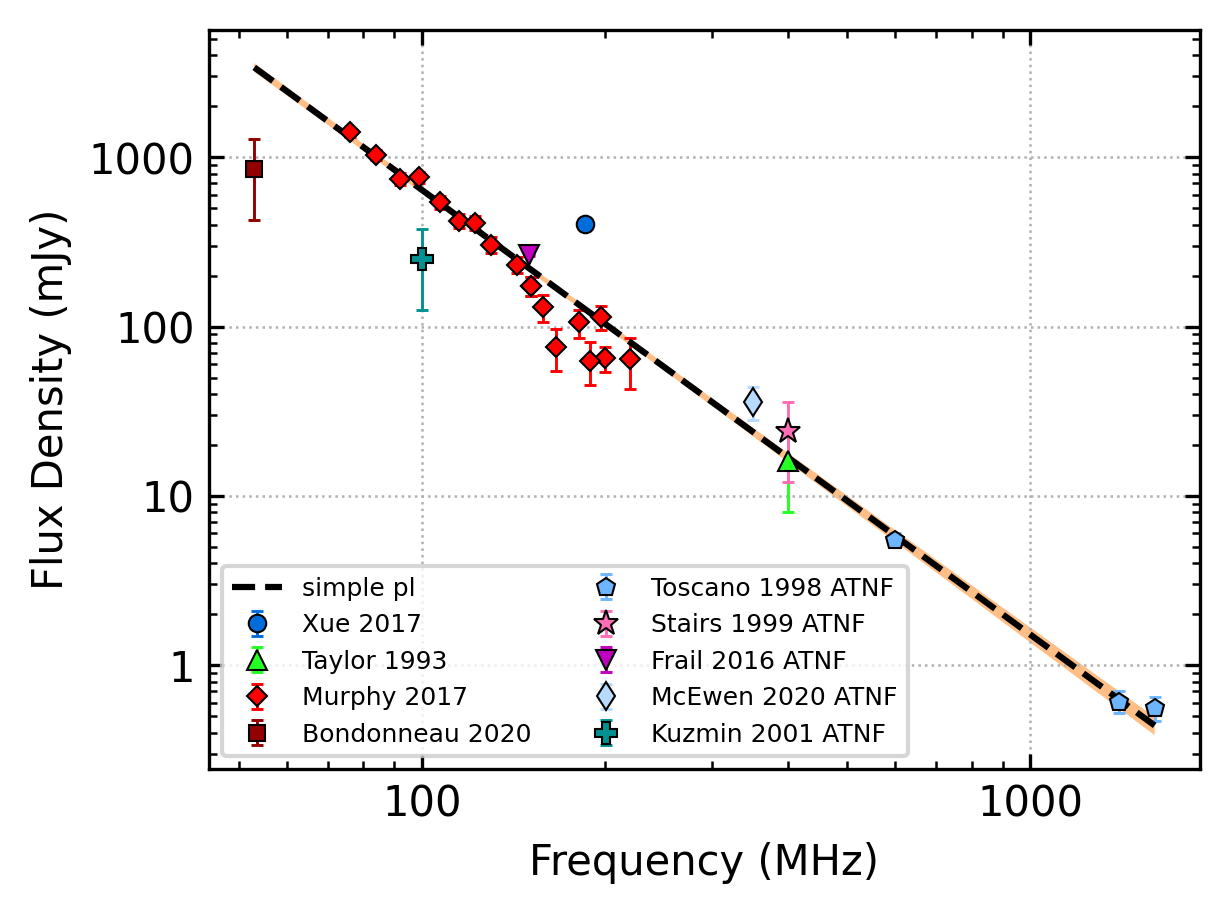
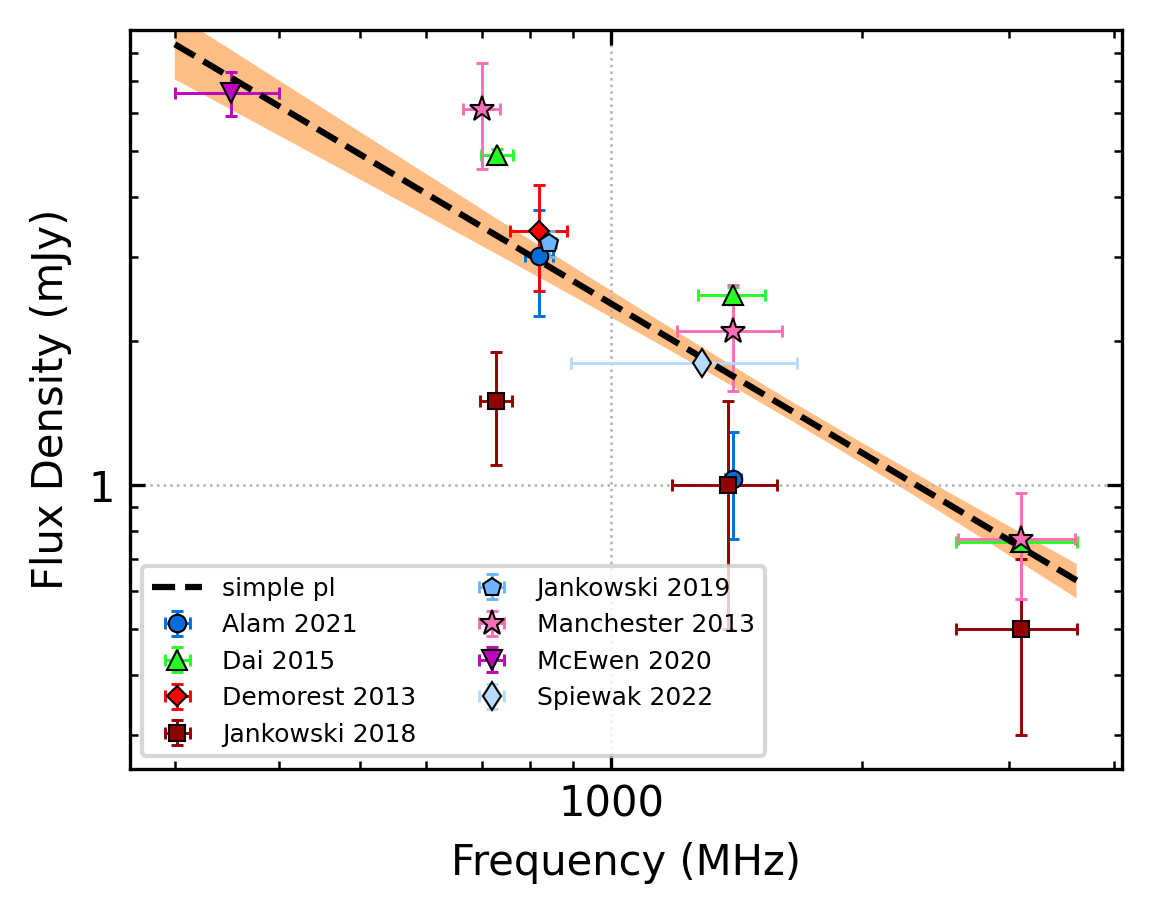
Updated plotting docs examples

diff --git a/docs/plotting.rst b/docs/plotting.rst
@@ -17,9 +17,9 @@ within the figure box and with an abbreviated model name and no fit info. This i
     from pulsar_spectra.spectral_fit import find_best_spectral_fit
 
     cat_dict = collect_catalogue_fluxes()
-    pulsar = 'J0034-0534'
-    freqs, fluxs, flux_errs, refs = cat_dict[pulsar]
-    best_model_name, iminuit_result, fit_info, p_best, p_category = find_best_spectral_fit(pulsar, freqs, fluxs, flux_errs, refs, plot_best=True, alternate_style=True)
+    pulsar = 'J1909-3744'
+    freqs, bands, fluxs, flux_errs, refs = cat_dict[pulsar]
+    best_model_name, iminuit_result, fit_info, p_best, p_category = find_best_spectral_fit(pulsar, freqs, bands, fluxs, flux_errs, refs, plot_best=True)
 
 This will produce the following plot:
 
@@ -41,21 +41,21 @@ marker to each reference. You can specify custom marker types using the followin
 
     custom_markers = {
     #   reference           :   (marker colour, marker type, marker size)
-        "Murphy_2017"       :   ('tab:orange', 'o', 5), # orange circle
-        "Bondonneau_2020"   :   ('tab:green',  'D', 5)  # green diamond
+        "Jankowski_2018"    :   ('magenta', 'h', 5), # orange circle
+        "Jankowski_2019"    :   ('cyan', 'H', 5)  # green diamond
     }
 
     cat_dict = collect_catalogue_fluxes()
-    pulsar = 'J0034-0534'
-    freqs, fluxs, flux_errs, refs = cat_dict[pulsar]
-    best_model_name, iminuit_result, fit_info, p_best, p_category = find_best_spectral_fit(pulsar, freqs, fluxs, flux_errs, refs, plot_best=True, ref_markers=custom_markers)
+    pulsar = 'J1909-3744'
+    freqs, bands, fluxs, flux_errs, refs = cat_dict[pulsar]
+    best_model_name, iminuit_result, fit_info, p_best, p_category = find_best_spectral_fit(pulsar, freqs, bands, fluxs, flux_errs, refs, plot_best=True, ref_markers=custom_markers)
 
 This will produce the following plot:
 
 .. image:: figures/example_custom_markers.png
   :width: 800
 
-In Lee et al. (2022, submitted), 32 custom marker types were created to ensure unique and consistent markers were
+In `Lee et al. (2022) <https://ui.adsabs.harvard.edu/abs/2022PASA...39...42L/abstract>`, 32 custom marker types were created to ensure unique and consistent markers were
 used throughout the figures. These custom marker types are proved below:
 
 .. code-block:: python
@@ -102,7 +102,8 @@ Plotting a secondary model
 
 Sometimes you may want to plot more than one best-fit model on the same figure with different subsets of data included
 in the fit. To differentiate between the two models, we have included an alternate model style which is light grey
-and does not show the uncertainty envelope. An example of how to use this is given below:
+and does not show the uncertainty envelope. For example, the following code can be used to show the model fit
+before and after the addition of your data:
 
 .. code-block:: python
 
@@ -110,16 +111,19 @@ and does not show the uncertainty envelope. An example of how to use this is giv
     from pulsar_spectra.catalogue import collect_catalogue_fluxes
     from pulsar_spectra.spectral_fit import find_best_spectral_fit
 
-    cat_dict    = collect_catalogue_fluxes()
-    cat_dict_2  = collect_catalogue_fluxes(exclude=["Murphy_2017"])
-    pulsar = 'J0034-0534'
-    freqs, fluxs, flux_errs, refs = cat_dict[pulsar]
-    freqs_2, fluxs_2, flux_errs_2, refs_2 = cat_dict_2[pulsar]
+    cat_dict = collect_catalogue_fluxes()
+    pulsar = 'J1909-3744'
+    freqs, bands, fluxs, flux_errs, refs = cat_dict[pulsar]
 
-    plotsize = 3.2
-    fig, ax = plt.subplots(figsize=(plotsize*4/3, plotsize))
-    best_model_name, iminuit_result, fit_info, p_best, p_category = find_best_spectral_fit(pulsar, freqs, fluxs, flux_errs, refs, plot_best=True, axis=ax)
-    best_model_name_2, iminuit_result_2, fit_info_2, p_best_2, p_category_2 = find_best_spectral_fit(pulsar, freqs_2, fluxs_2, flux_errs_2, refs_2, plot_best=True, secondary_fit=True, axis=ax)
+    fig, ax = plt.subplots(figsize=(5,4))
+    find_best_spectral_fit(pulsar, freqs, bands, fluxs, flux_errs, refs, plot_best=True, secondary_fit=True, axis=ax)
+
+    freqs = [150.] + freqs
+    bands = [30.] + bands
+    fluxs = [6.] + fluxs
+    flux_errs = [1.] + flux_errs
+    refs = ['Your Work'] + refs
+    best_model_name, iminuit_result, fit_info, p_best, p_category = find_best_spectral_fit(pulsar, freqs, bands, fluxs, flux_errs, refs, plot_best=True, axis=ax)
 
     plt.savefig(pulsar+'_'+best_model_name+'_fit.png', bbox_inches='tight', dpi=300)
 
